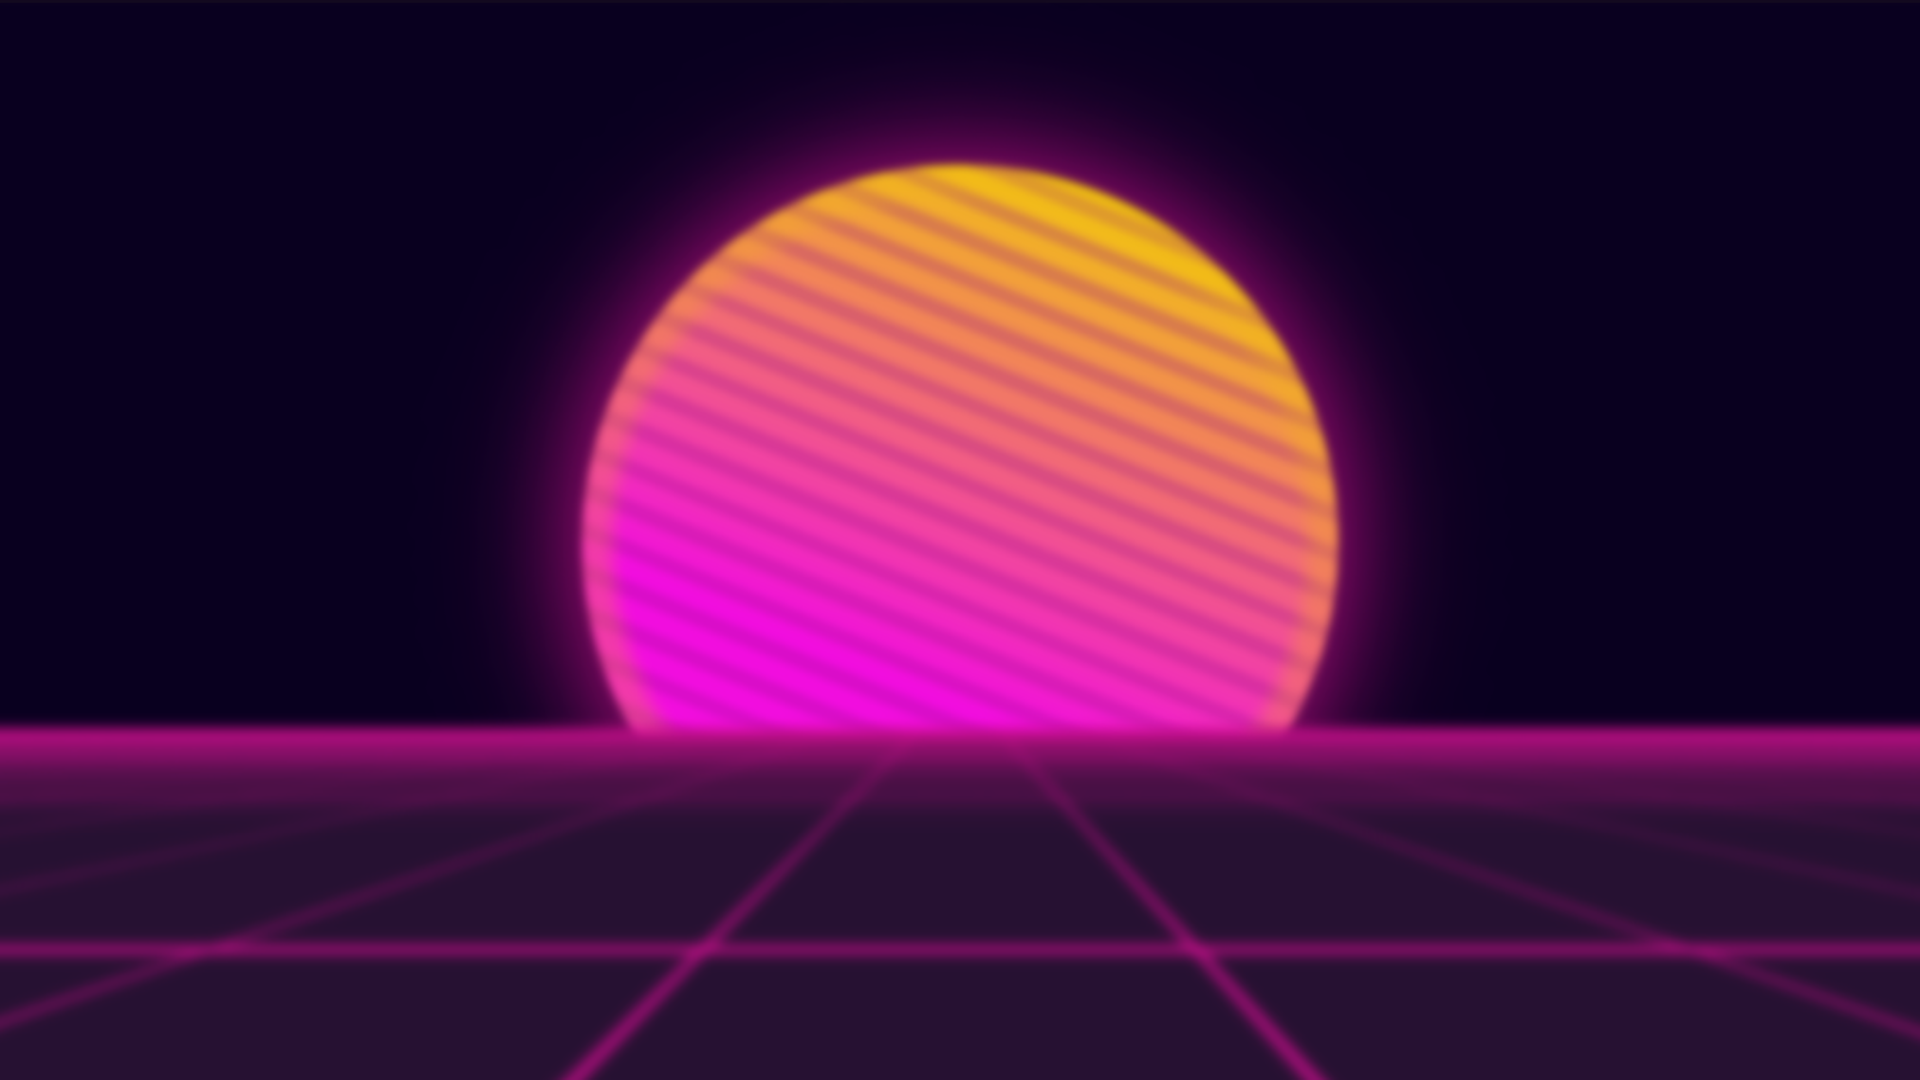
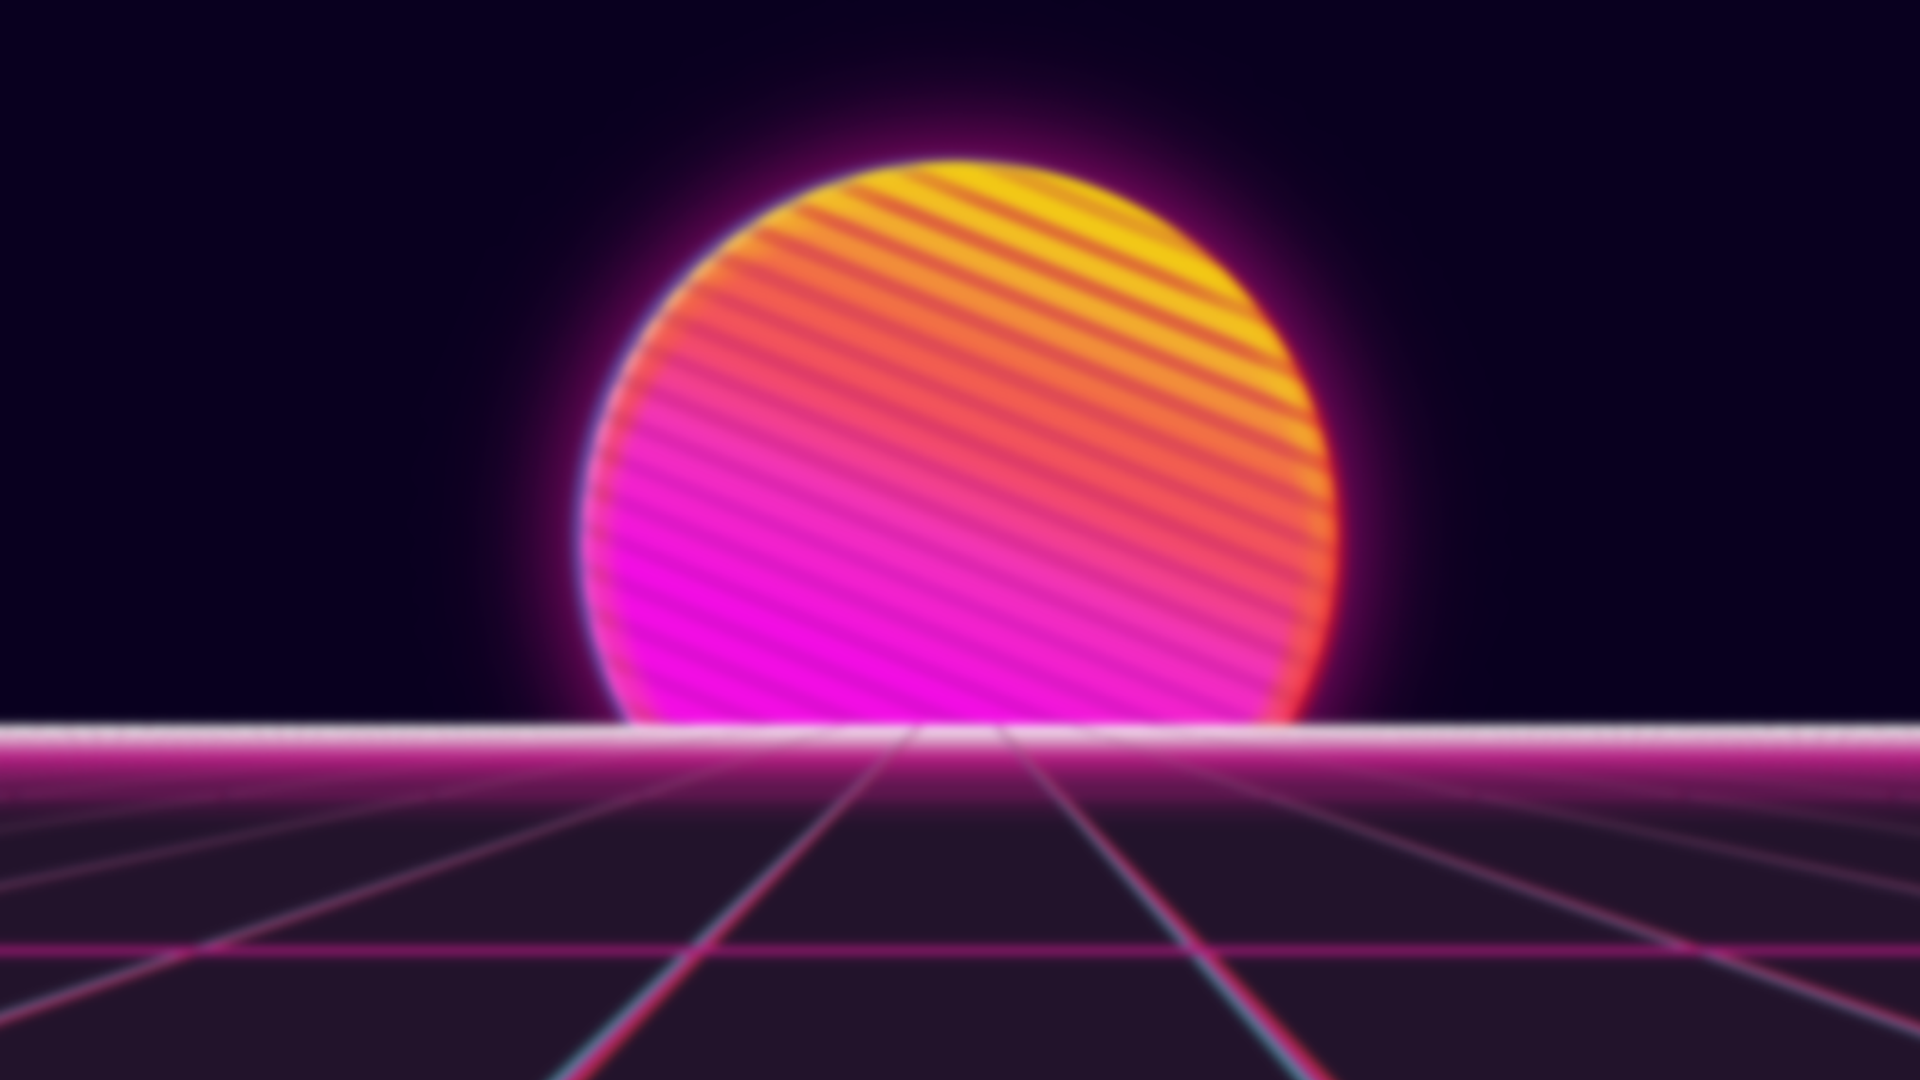
event background changes

diff --git a/styles/Events.module.scss b/styles/Events.module.scss
@@ -69,7 +69,7 @@
         clip-path: polygon(0 0, 100% 0, 100% calc(100% - 4rem), 0 100%);
         background: 
         url('../public/images/events/aov_background.png'),
-        linear-gradient(hsl(180, 100%, 20%), black);
+        linear-gradient(hsl(180, 100%, 20%), black 80%);
         background-size: cover;
         background-repeat: no-repeat;
         background-position: 50% 50%;
@@ -167,22 +167,21 @@
             font-weight: 800;
             display: block;
 
-            p {
+            .command_line {
                 color: black;
                 position: relative;
                 padding-left: 30%;
+                margin-top: 1em;
                 background: hsl(var(--green), 75%);
                 font-size: clamp(1rem, 3vw, 2rem);
 
                 &::after {
                     content: "";
                     position: absolute;
-                    // left: 100%;
                     bottom: calc(0.375em/2);
                     width: 1ch;
                     height: calc(0.375em/4);
                     background: black;
-                    // border: calc(0.375em/4) white solid;
                     animation: blink 1s steps(1) infinite;
                 }
 
@@ -198,7 +197,7 @@
                     }
                 }
 
-                .type_blocker {
+                .type_cursor {
                     position: absolute;
                 }
             }
@@ -274,6 +273,7 @@
 }
 
 .main_otk {
+    background: var(--background);
     .banner {
         overflow: hidden;
         z-index: 1;
@@ -325,11 +325,6 @@
             --blur-radius: clamp(2px, 0.25vw, 4px);
             filter: blur(var(--blur-radius)) contrast(0.75);
 
-            &::before, &::after {
-                --blur-radius: clamp(2px, 0.25vw, 3px);
-                filter: blur(var(--blur-radius));
-            }
-
             &::before {
                 content: '';
                 position: absolute;
@@ -372,7 +367,6 @@
                 transform: scaleX(2) rotateX(85deg) translateY(60px);
                 inset: 0;
                 --line-width: clamp(0.0625rem, 0.25vw, 0.125rem);
-                // --line-width: 2px;
                 --sizing: clamp(10px, 4vw, 40px);
                 background:
                     linear-gradient(to top, hsl(320, 100%, 45%) 0 var(--line-width), transparent var(--line-width) 20px),
@@ -381,6 +375,7 @@
                     linear-gradient(to left, hsl(180, 80%, 50%, 100%) 0 var(--line-width), transparent var(--line-width)),
                     linear-gradient(to bottom, hsl(0, 0%, 100%) 10%, hsl(320, 100%, 45%), transparent 40%),
                     hsl(278, 78%, 9%);
+
                 background-size: 
                     var(--sizing) calc(var(--sizing)*2),
                     calc(var(--sizing) * 2 ) calc(var(--sizing)*2),
@@ -388,16 +383,35 @@
                     calc(var(--sizing) * 2) calc(var(--sizing)*2),
                     cover, cover
                 ;
-                background-position: -1px -1px, -1px -1px, 0px 0px, -2px -1px, top, top;
+
+                background-position: 
+                    -1px -1px,
+                    -1px -1px,
+                    0px 0px,
+                    -2px -1px,
+                    top,
+                    top;
                 animation: moveUp 750ms 2s forwards 5 linear;
             }
 
             @keyframes moveUp {
                 0% {
-                    background-position: -1px -1px, -1px -1px, 0px 0px, -2px -1px, top, top;
+                    background-position: 
+                        -1px -1px, 
+                        -1px -1px, 
+                        0px 0px, 
+                        -2px -1px, 
+                        top, 
+                        top;
                 }
                 100% {
-                    background-position: var(--sizing) calc(var(--sizing) * 2), -1px -1px, 0px 0px, -2px -1px, top, top;
+                    background-position:
+                        var(--sizing) calc(var(--sizing) * 2),
+                        -1px -1px,
+                        0px 0px,
+                        -2px -1px,
+                        top,
+                        top;
                 }
             }
         }
@@ -421,5 +435,9 @@
             font-size: clamp(15px, 3vw, 1.5rem);
             text-align: center;
         }
+    }
+
+    @media (prefers-color-scheme: dark) {
+        --background: hsl(257, 100%, 6%);
     }
 }

diff --git a/styles/Event.module.scss b/styles/Event.module.scss
@@ -42,7 +42,13 @@
             }
 
             .aov {
-                background: linear-gradient(hsl(180, 100%, 20%), black);
+                background: 
+                url('../public/images/events/aov_background.png'),
+                linear-gradient(hsl(180, 100%, 20%), black);
+                background-size: cover;
+                background-repeat: no-repeat;
+                background-position: 50% 50%;
+                background-blend-mode: darken, normal;
             }
 
             .td {
@@ -58,7 +64,10 @@
             }
 
             .otk {
-                background: no-repeat center/100% 100% url('/images/events/otk_background.png');
+                background: linear-gradient(transparent 70%, var(--accent)), url('/images/events/otk_background.png');
+                background-repeat: no-repeat;
+                background-position: center;
+                background-size: 100% 100%;
                 perspective: 200px;
                 & > * {
                     transform: rotateX(22.5deg) scale(0.9);
